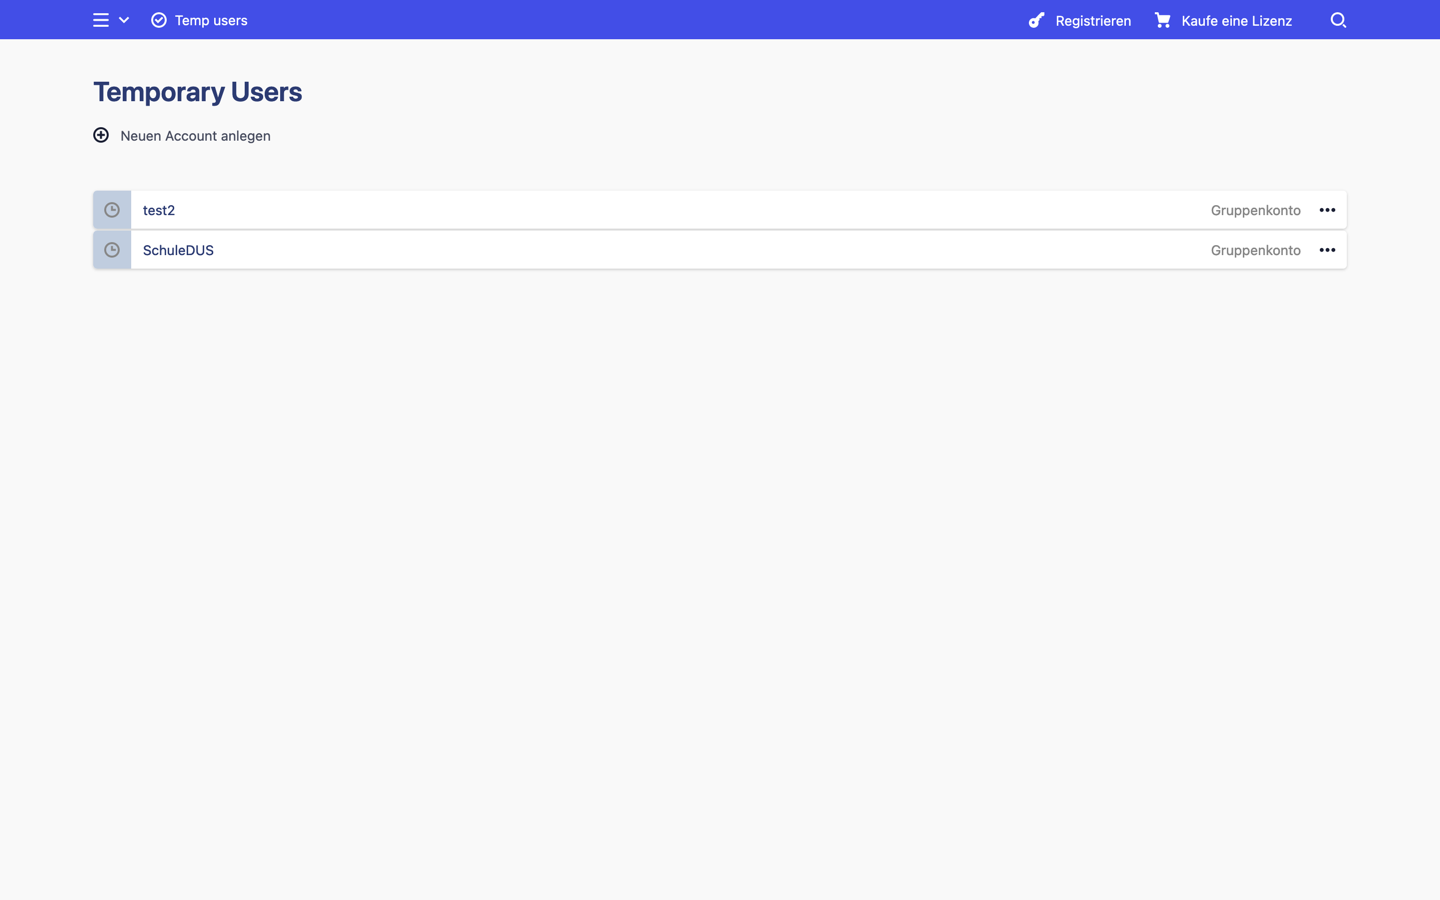
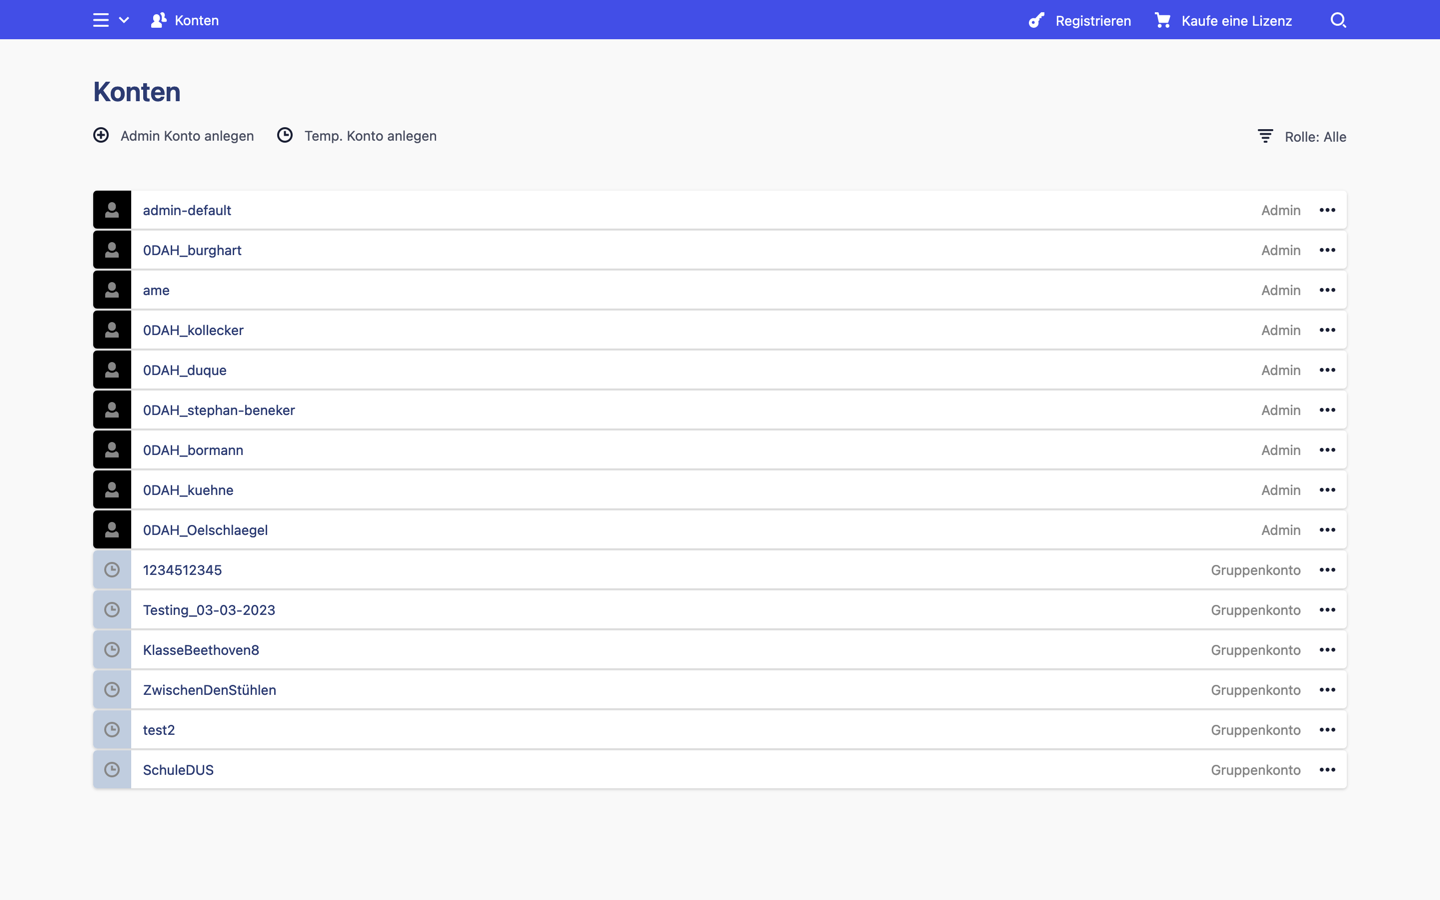
new screenshots after users plugin change, docs/readme updated, admin.md still to be updated

diff --git a/docs/README.md b/docs/README.md
@@ -153,11 +153,11 @@ Den Admin-Bereich finden Sie unter `/panel`, z.B.:
 
 `https://meinedomain.de/panel`
 
-Ein Gruppenkonto, z. B. für eine komplette Klasse, kann im Bereich 'Temp Users' angelegt werden. Gruppenkonten sollten regelmäßig deaktiviert und im Anschluss gelöscht werden. So ist sichergestellt, dass die Teilnehmer nur für eine begrenzte Zeit Zugriff zum Workshop haben. Ein automatisiertes Löschen muss auf Ihrem Server per CRON-Job ausgeführt werden (mehr dazu im Kapitel [Technisches](details/technisches.md)).
+Ein Gruppenkonto, z. B. für eine komplette Klasse, kann im Bereich 'Konten' angelegt werden. Gruppen-Konten sollten regelmäßig deaktiviert und im Anschluss gelöscht werden. So ist sichergestellt, dass die Teilnehmer nur für eine begrenzte Zeit Zugriff zum Workshop haben. Ein automatisiertes Löschen muss auf Ihrem Server per CRON-Job ausgeführt werden (mehr dazu im Kapitel [Technisches](details/technisches.md)).
 
-Zur Erstellung eines Gruppenkontos muss sich der/die Mitarbeiter:in im Admin-Bereich einloggen, oben links in der Navigation "Temp Users" auswählen, auf "Neuen Account anlegen" klicken und einen Namen für das Konto eingeben, z. B. KlasseBeethoven8. Das System wird automatisch ein Passwort vergeben. **Dieses Passwort unbedingt aufschreiben, um es später übergeben zu können.** 
+Zur Erstellung eines Gruppen-Kontos muss sich der/die Mitarbeiter:in im Admin-Bereich einloggen, oben links in der Navigation "Konten" auswählen, auf "Temp. Konto anlegen" klicken und einen Namen für das Konto eingeben, z. B. KlasseBeethoven8. Das System wird automatisch ein Passwort vergeben. **Dieses Passwort unbedingt aufschreiben, um es später übergeben zu können.** 
 
-Menü oben links |  Übersicht Temp Users  |  Konto anlegen
+Menü oben links |  Übersicht Konten  |  Konto anlegen
 :-------------------------:|:-------------------------:|:-------------------------:
 ![](_media/admin/panel-menu.png)  |  ![](_media/admin/users/tempusers-paneloverview.png)  |  ![](_media/admin/users/tempusers-anlegen.png) 
 
